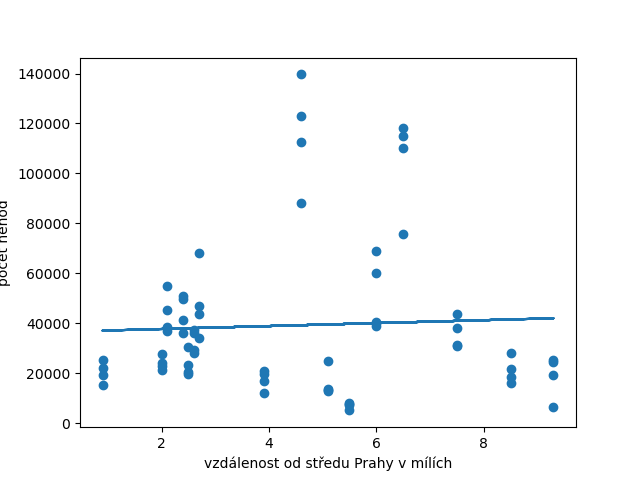
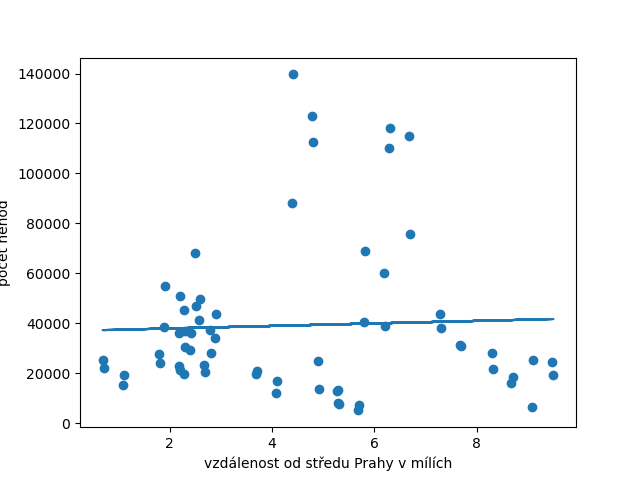
finish

diff --git a/p.py b/p.py
@@ -3,10 +3,14 @@
 import csv
 import matplotlib.pyplot as plt
 from scipy import stats
+import random
 
-data_set = ["data-2018.csv", "data-2019.csv" ,"data-2020.csv", "data-2021.csv"]
+data_set = [18, 19, 20, 21]
 
-def match_distance():
+def plus_minus(year):
+    return 1 if year%2 == 0 else -1
+
+def match_distance(year):
     with open('vzdalenosti.csv') as csv_file:
         data = {}
         csv_reader = csv.reader(csv_file, delimiter=',')
@@ -15,7 +19,7 @@ def match_distance():
             x = row[0].upper() 
             y = row[1]
             if len(x) > 0 and len(y) > 0: 
-                data[x] = float(y)
+                data[x] = float(y) + year * plus_minus(year)/100
         return data
 
 def join(cisla, vzdalenosti):
@@ -65,9 +69,9 @@ def prepare(f):
 
     return data
 
-def process(f):
-    cisla = prepare(f)
-    vzdalenosti = match_distance()
+def process(year):
+    cisla = prepare("data-20{0}.csv".format(year))
+    vzdalenosti = match_distance(year)
 
     cisla = join(cisla, vzdalenosti)
     return cisla

diff --git a/README.md b/README.md
@@ -28,6 +28,10 @@ Zvolené body a přímky, podle kterých jsem počítal vzdálenost,
 jsou v souboru [casti.json](./casti.json). Vzdálenost jsem počítal
 s pomocí aplikace [http://geojson.io/](http://geojson.io/), kde 
 se mi nepodařilo najít konverzi na km, tak jsou vzdálenosti v mílích.
+Jelikož vzdálenost je jako taková hodně nepřesán, tak jsem se rozhodl
+ji pro každý rok lehce posunout v rámci městské části. Konkrétně o
+`(rok - 2000)/100`, dále nebo blíže ke středu podle toho, zda byl lichý
+nebo sudý rok, ať lehce eliminuji můj nepřesný výběr vzdálenosti.
 
 ## Lineární regrese
 
@@ -35,7 +39,7 @@ Jako alfa-hodnotu si zvolím klasicky `0.05` a provedu lineární regresi.
 
 ![Lineární regrese](./linear.png)
 
-Z lineární regrese dostanu p-hodnotu přibližně `0.72`, 
+Z lineární regrese dostanu p-hodnotu přibližně `0.75`, 
 což je velmi vysoko nad hranicí `0.05`. Tedy nulovou hypotézu
-určitě neumím potvrdit.
+určitě nemůžu zamítnout podle zpracovaných dat.
  
